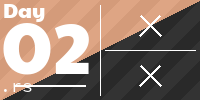
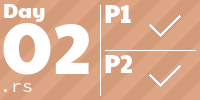
AoCTiles not using cached leaderboard

diff --git a/AoCTiles/create_aoc_tiles.py b/AoCTiles/create_aoc_tiles.py
@@ -116,42 +116,31 @@ def get_paths_matching_regex(path: Path, pattern: str):
     return sorted([p for p in path.iterdir() if re.fullmatch(pattern, p.name)])
 
 
-def parse_leaderboard(leaderboard_path: Path) -> dict[str, DayScores]:
+def parse_leaderboard(leaderboard_text: str) -> dict[str, DayScores]:
     no_stars = "You haven't collected any stars... yet."
     start = '<span class="leaderboard-daydesc-both"> *Time *Rank *Score</span>\n'
     end = "</pre>"
-    with open(leaderboard_path) as file:
-        html = file.read()
-        if no_stars in html:
-            return {}
-        matches = re.findall(rf"{start}(.*?){end}", html, re.DOTALL | re.MULTILINE)
-        assert len(matches) == 1, f"Found {'no' if len(matches) == 0 else 'more than one'} leaderboard?!"
-        table_rows = matches[0].strip().split("\n")
-        leaderboard = {}
-        for line in table_rows:
-            day, *scores = re.split(r"\s+", line.strip())
-            # replace "-" with None to be able to handle the data later, like if no score existed for the day
-            scores = [s if s != "-" else None for s in scores]
-            assert len(scores) in (
-                3, 6), f"Number scores for {day=} ({scores}) are not 3 or 6."
-            leaderboard[day] = DayScores(*scores)
-        return leaderboard
+    if no_stars in leaderboard_text:
+        return {}
+    matches = re.findall(rf"{start}(.*?){end}", leaderboard_text, re.DOTALL | re.MULTILINE)
+    assert len(matches) == 1, f"Found {'no' if len(matches) == 0 else 'more than one'} leaderboard?!"
+    table_rows = matches[0].strip().split("\n")
+    leaderboard = {}
+    for line in table_rows:
+        day, *scores = re.split(r"\s+", line.strip())
+        # replace "-" with None to be able to handle the data later, like if no score existed for the day
+        scores = [s if s != "-" else None for s in scores]
+        assert len(scores) in (
+            3, 6), f"Number scores for {day=} ({scores}) are not 3 or 6."
+        leaderboard[day] = DayScores(*scores)
+    return leaderboard
 
 
 def request_leaderboard(year: int) -> dict[str, DayScores]:
-    leaderboard_path = CACHE_DIR / f"leaderboard{year}.html"
-    if leaderboard_path.exists():
-        leaderboard = parse_leaderboard(leaderboard_path)
-        has_no_none_values = all(itertools.chain(map(list, leaderboard.values())))
-        if has_no_none_values:
-            return leaderboard
     with open(SESSION_COOKIE_PATH) as cookie_file:
         session_cookie = cookie_file.read().strip()
         data = requests.get(PERSONAL_LEADERBOARD_URL.format(year=year), cookies={"session": session_cookie}).text
-        leaderboard_path.parent.mkdir(exist_ok=True, parents=True)
-        with open(leaderboard_path, "w") as file:
-            file.write(data)
-    return parse_leaderboard(leaderboard_path)
+    return parse_leaderboard(data)
 
 
 class HTMLTag:

diff --git a/README.md b/README.md
@@ -6,7 +6,7 @@ Path to the input file should be passed as a first argument to the program.
 ### Progress
 <!-- AOC TILES BEGIN -->
 <h1 align="center">
-  2 ⭐
+  6 ⭐
 </h1>
 <a href="Day 1/src/main.rs">
   <img src="Media/2022/01.png" width="161px">
